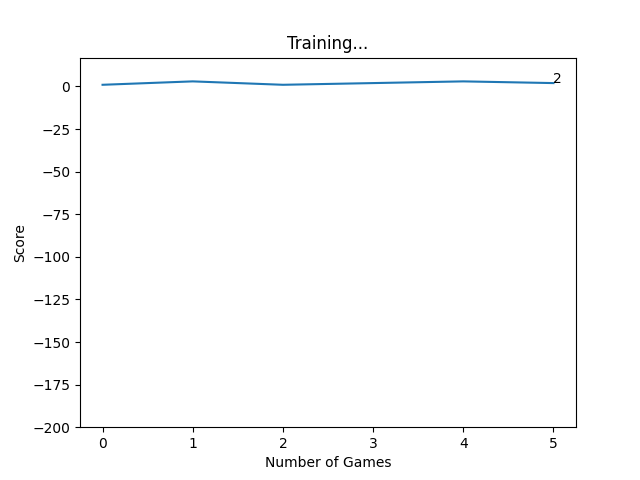
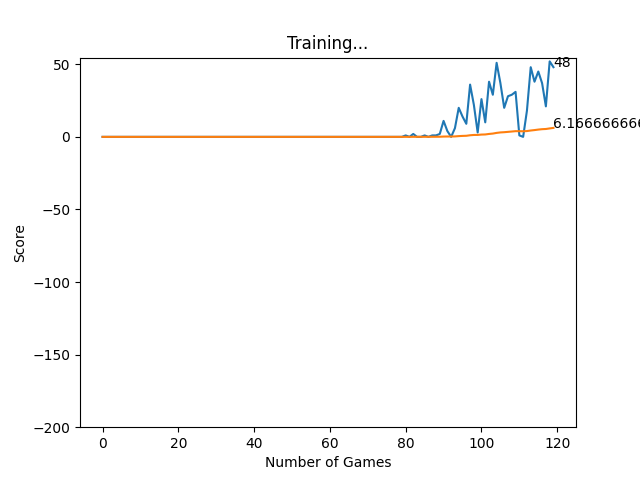
Changed the input and output for dqn

diff --git a/agent.py b/agent.py
@@ -19,7 +19,7 @@ class Agent:
         self.epsilon = 0 #randomness
         self.gamma = 0.9 #discount
         self.memory = deque(maxlen=MAX_MEMORY)
-        self.model = Linear_QNet(11, 256, 3) #state vector, hidden layer, output vector (action)
+        self.model = Linear_QNet(8, 256, 4) #state vector, hidden layer, output vector (action)
         self.trainer = QTrainer(self.model, lr = LR, gamma = self.gamma)
 
     def get_state(self, game):
@@ -40,29 +40,18 @@ class Agent:
 
 
         state = [
-            #danger in front
-            (dir_r and game.is_collision(point_r)) or
-            (dir_l and game.is_collision(point_l)) or
-            (dir_u and game.is_collision(point_u)) or
-            (dir_d and game.is_collision(point_d)),
+            game.is_collision(point_r),
+            game.is_collision(point_l),
+            game.is_collision(point_u),
+            game.is_collision(point_d),
 
-            #danger right
-            (dir_u and game.is_collision(point_r)) or
-            (dir_d and game.is_collision(point_l)) or
-            (dir_l and game.is_collision(point_u)) or
-            (dir_r and game.is_collision(point_d)),
-
-            #danger left
-            (dir_u and game.is_collision(point_l)) or
-            (dir_d and game.is_collision(point_r)) or
-            (dir_r and game.is_collision(point_u)) or
-            (dir_l and game.is_collision(point_d)),
-
-            #move direction, only one is true
-            dir_l,
-            dir_r,
-            dir_u,
-            dir_d,
+            # KOMENTAR
+            # Ako ovo otkomentirate, morate u config-neat.txt promijeniti num_inputs na 12.
+            # Move direction, only one is true
+            #dir_l,
+            #dir_r,
+            #dir_u,
+            #dir_d,
 
             #Food location
             game.food.x < game.head.x, #food left
@@ -94,7 +83,7 @@ class Agent:
 
         ]
 
-        return np.array(state, dtype=int) #array with booleans converted to 0 or 1
+        return np.array(state, dtype=float) #array with booleans converted to 0 or 1
 
 
     def remember(self, state, action, reward, next_state, game_over):
@@ -115,9 +104,9 @@ class Agent:
     def get_action(self, state):
         #random moves: explore / exploit
         self.epsilon = 80 - self.num_games #hardcoded
-        final_move = [0, 0, 0]
+        final_move = [0, 0, 0, 0]
         if random.randint(0, 200) < self.epsilon:
-            move = random.randint(0, 2)
+            move = random.randint(0, 3)
             final_move[move] = 1
         else:
             #make a proper move
@@ -134,7 +123,7 @@ def train():
     total_score = 0
     record = 0
     agent = Agent()
-    game = SnakeGameAI(False)
+    game = SnakeGameAI(False, 10_000)
 
     while True:
         #get old state

diff --git a/snakeGame.py b/snakeGame.py
@@ -84,18 +84,16 @@ class SnakeGameAI:
         pygame.display.update()
 
     def move(self, action):
-        # [straight, right, left] snake action
-        clockwise = [Direction.RIGHT, Direction.DOWN, Direction.LEFT, Direction.UP]
-        ind = clockwise.index(self.direction)
+        # [up, down, right, left] snake action
 
-        if np.array_equal(action, [1, 0, 0]):
-            new_dir = clockwise[ind] #no change
-        elif np.array_equal(action, [0, 1, 0]):
-            next_ind = (ind + 1) % 4
-            new_dir = clockwise[next_ind] #right turn
-        else:
-            next_ind = (ind - 1) % 4
-            new_dir = new_dir = clockwise[next_ind] #left turn
+        if np.array_equal(action, [1, 0, 0, 0]):
+            new_dir = Direction.UP
+        elif np.array_equal(action, [0, 1, 0, 0]):
+            new_dir = Direction.DOWN
+        elif np.array_equal(action, [0, 0, 1, 0]):
+            new_dir = Direction.RIGHT
+        elif np.array_equal(action, [0, 0, 0, 1]):
+            new_dir = Direction.LEFT
     
         self.direction = new_dir
 
